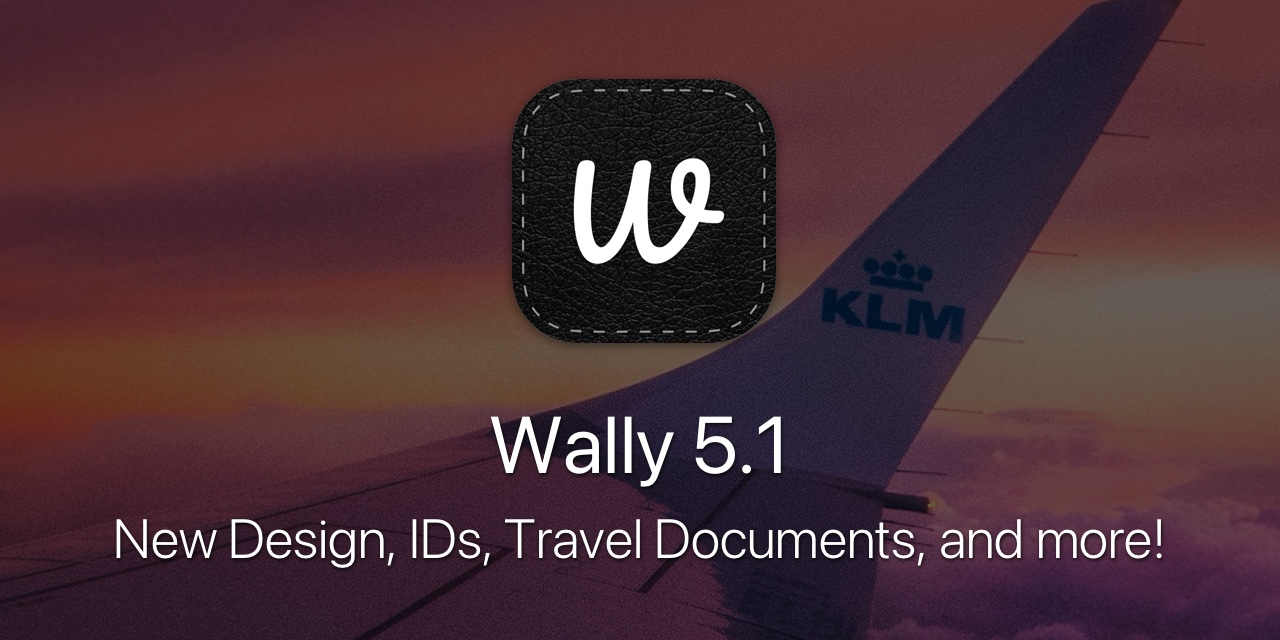
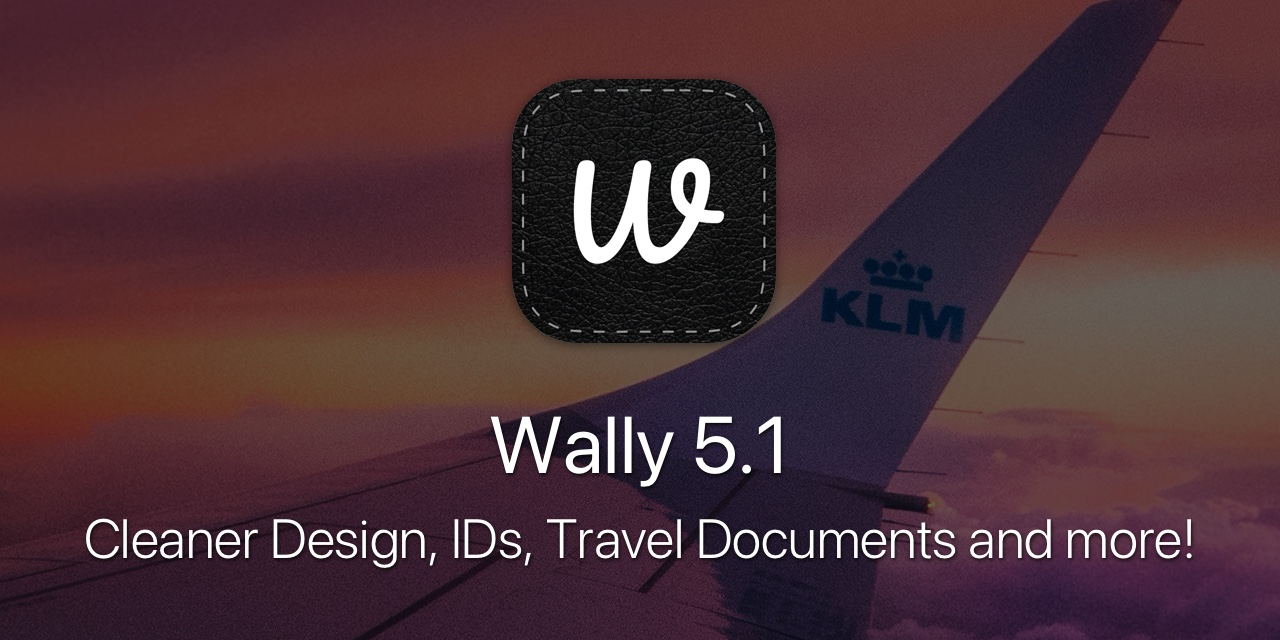
Add blog post for 5.1

Changed region(s): [[0.0625, 0.8125, 0.9375, 0.9062]]

diff --git a/index.html b/index.html
@@ -33,7 +33,7 @@ description: Wally is a digital wallet for iPhone and iPad. Put your things into
     <div class="grid home blog list">
       {% for post in site.posts limit:2 %}
       <div>
-        {% include kankoda/blog/list-item.html post=posts.first tag-limit=1 %}
+        {% include kankoda/blog/image-item.html post=posts.first tag-limit=1 %}
       </div>
       {% endfor %}
     </div>

diff --git a/collections/_posts/2025/2025-03-21-wally-5-1.md b/collections/_posts/2025/2025-03-21-wally-5-1.md
@@ -1,0 +1,55 @@
+---
+title: Wally 5.1 is out
+date:  2023-09-20 07:00:00 +0100
+tags:  releases features
+
+image: /assets/headers/version-5_1.jpg
+image-show: 0
+
+assets: /assets/blog/25/0321/
+---
+
+Wally 5.1 is out! This update has a cleaner design and adds support for new item types like ID cards and travel documents. It also lets you change images of already added items.
+
+![iOS device using the new Diesel skin]({{page.image}})
+
+
+## Cleaner Design
+
+Wally 5.1 cleans up and simplifies the app design. It aims to keep the classic, skeumorphic design while also making the app cleaner and easier to use.
+
+<div class="grid col3">
+    <img src="{{page.assets}}screenshot-menu.jpg" />
+    <img src="{{page.assets}}screenshot-wallet.jpg" />
+    <img src="{{page.assets}}screenshot-skins.jpg" />
+</div>
+
+The new design provides more screen estate, to give your things room to breathe. It also removes most of the onboarding hints, and replaces them with new, easily dismissable panels.
+
+Item types have been adjusted to no longer have any "premium" item types. As such, all types are shown in the menu. You can hide types you don't use in Settings.
+
+
+## Improved Item Screen
+
+Wally 5.1 cleans up the item screen and makes it easier to manage the information of your things.
+
+<div class="grid col2">
+    <img src="{{page.assets}}screenshot-item.jpg" />
+    <img src="{{page.assets}}screenshot-edit.jpg" />
+</div>
+
+You can now edit the front and back image of any already added item, add more information to your things and easily export and delete items directly from the item screen.
+
+
+## More Item Types
+
+Wally 5.1 adds support for IDs, travel documents, and tickets. You can now add identity cards and driver's licenses that don't have a card aspect ratio, and add travel and event tickets to the app.
+
+
+## Conclusion
+
+Wally 5.1 is much cleaner than earlier versions. It streamlines the app, adds support for more item types, and lets you add more information to your things. 
+
+{% include kankoda/buttons/app-store.html %}
+
+You can [download Wally 5.1 from the App Store]({{site.urls.appstore}}). We hope that you will love these changes, and hope that you reach out with any suggestions you may have.
